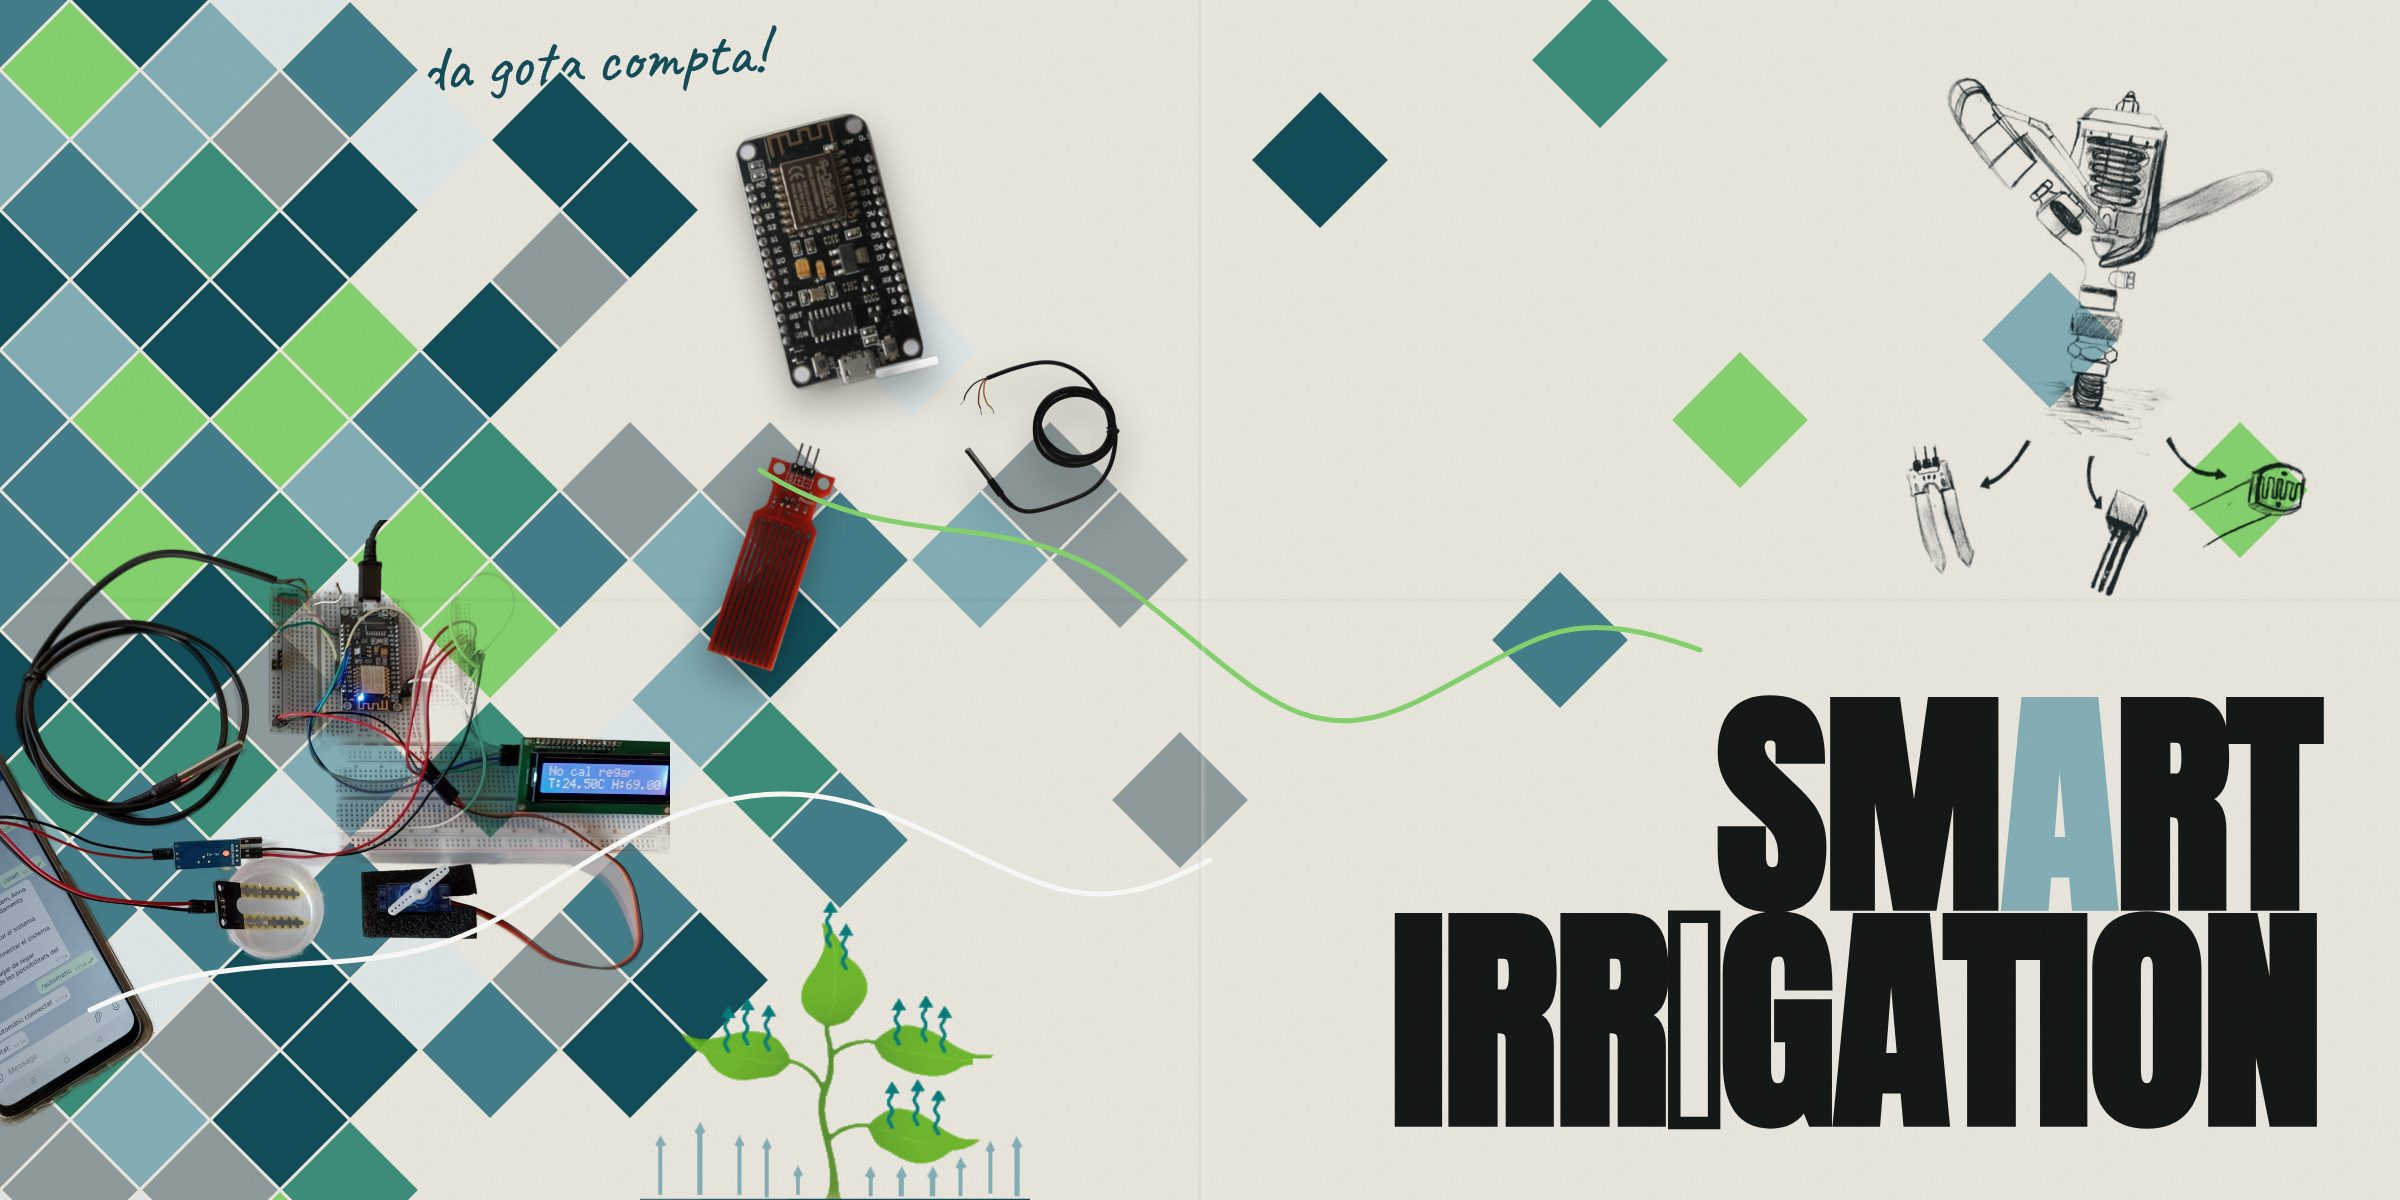
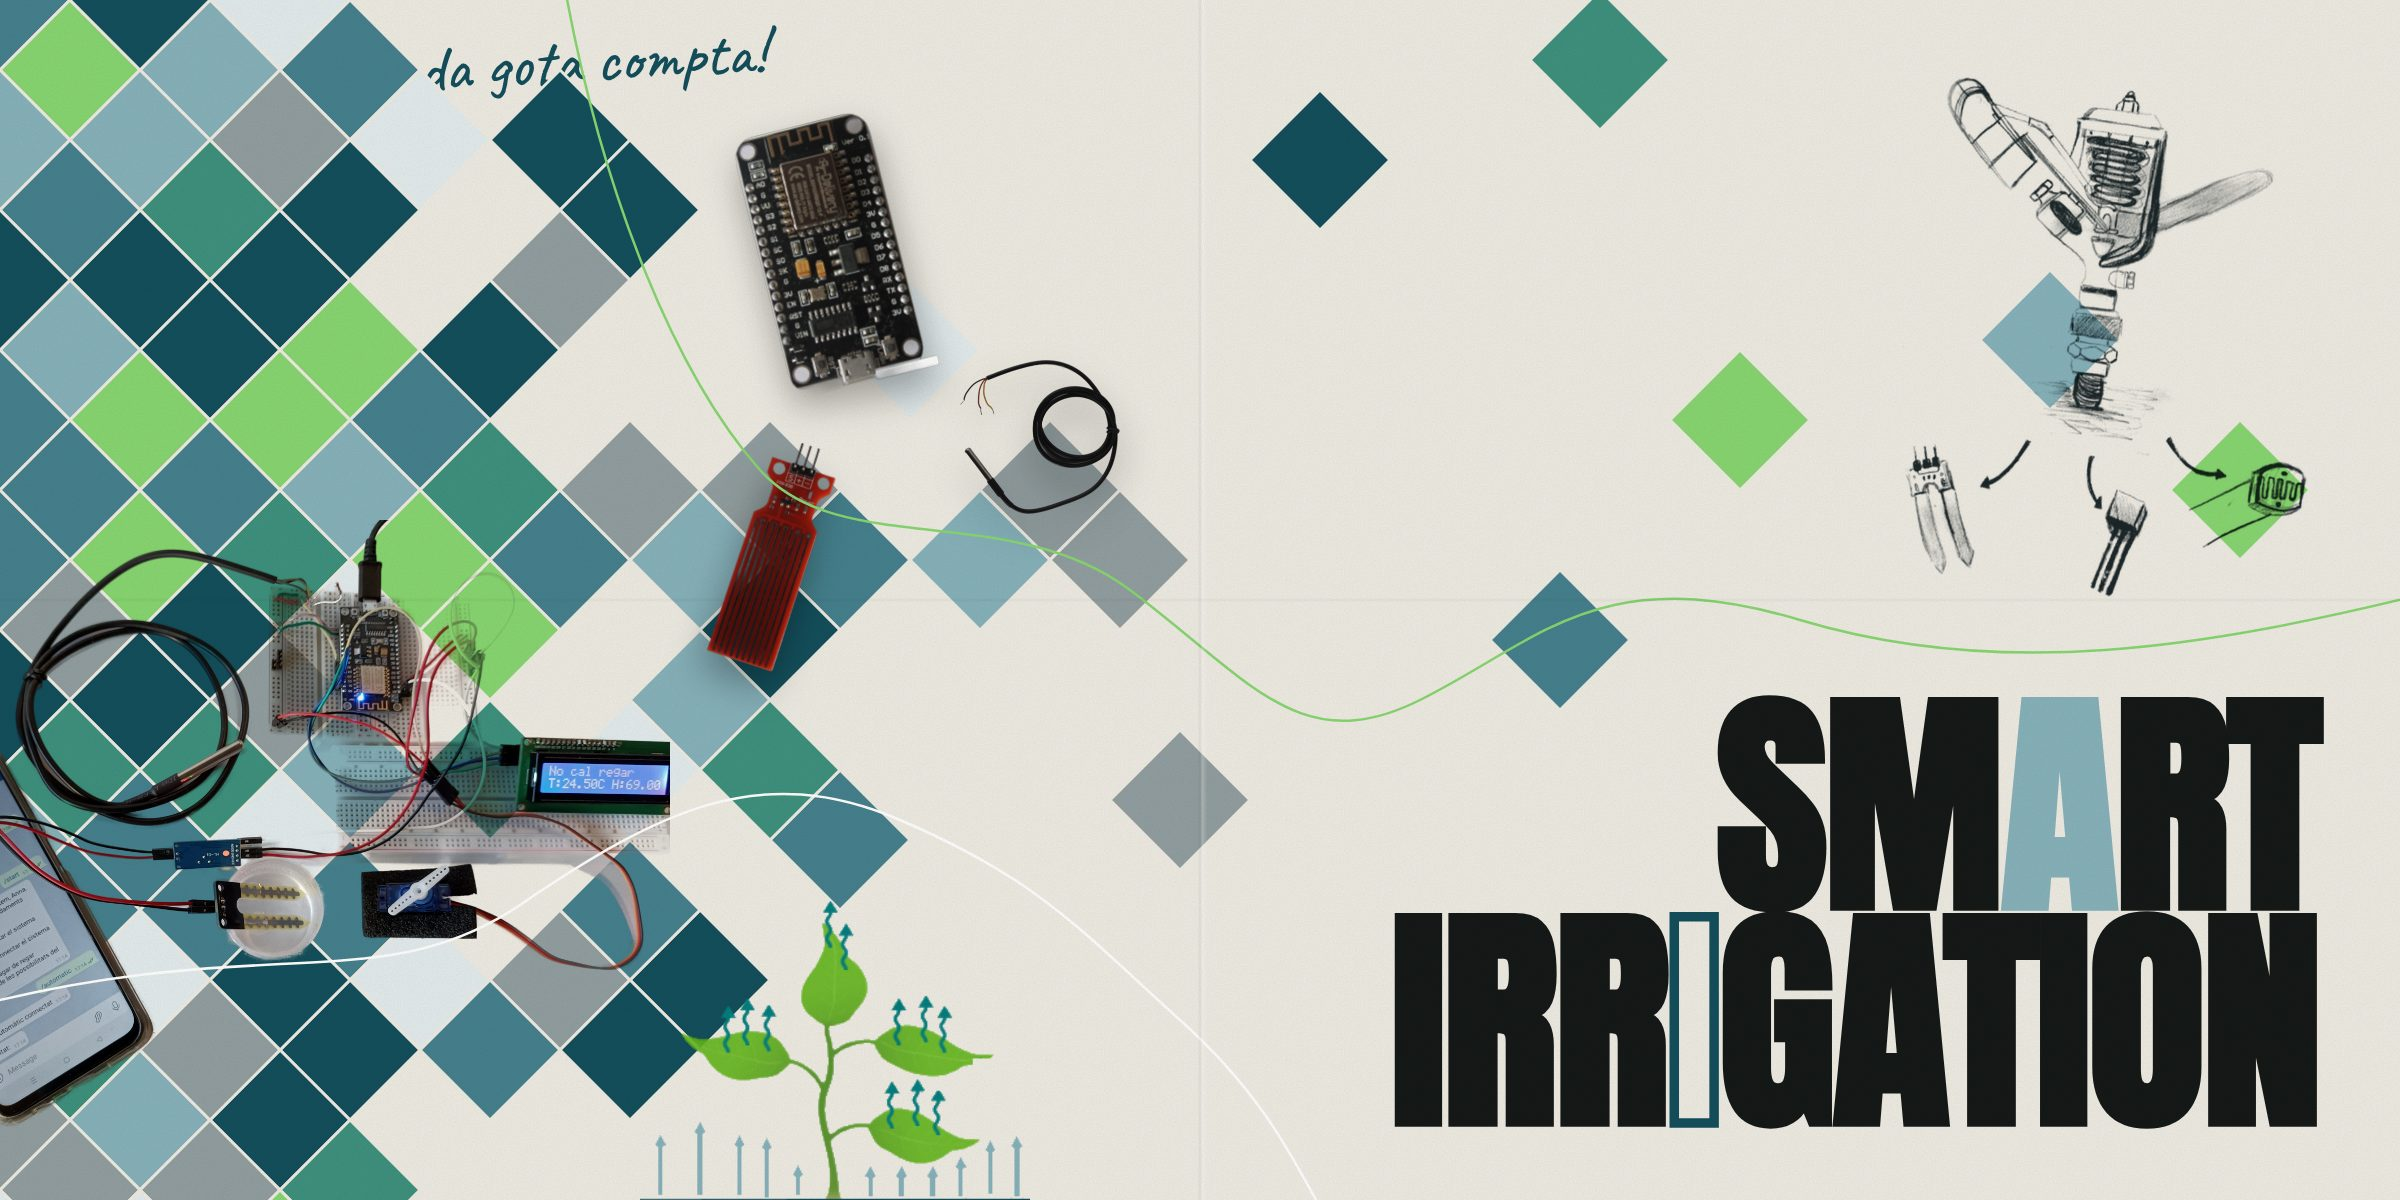
Billboard: fine dark-blue outlined I, thinner lines that run off the edges
Claude-Session: https://claude.ai/code/session_01PchemtfrPnXx57Zg6o9MzX

diff --git a/billboard/smart-irrigation.html b/billboard/smart-irrigation.html
@@ -39,7 +39,7 @@
     background: url("../images/smart-irrigation/sketch.png") center top / contain no-repeat; transform: rotate(6deg); }
   .plant { left: 640px; bottom: -4px; width: 390px; z-index: 4; } /* between the two layers of tiles */
   .title .blue { color: var(--sky); }
-  .title .ghost { color: transparent; -webkit-text-stroke: 5px var(--black); }
+  .title .ghost { color: transparent; -webkit-text-stroke: 2px var(--ink); }
   .hand { left: 360px; top: 30px; z-index: 1; margin: 0; font-family: Caveat, cursive; font-size: 64px; line-height: 1; color: var(--ink); transform: rotate(-3deg); }
   .comp { z-index: 8; filter: drop-shadow(0 18px 18px rgba(0,0,0,.35)); }
   .c-node { left: 760px; top: 120px; width: 150px; transform: rotate(-14deg); }
@@ -65,8 +65,8 @@
   <img class="comp c-water" src="../images/smart-irrigation/tile-water-sensor.png" alt="Soil humidity sensor">
 
   <svg class="strokes" viewBox="0 0 2400 1200" aria-hidden="true" fill="none" stroke-linecap="round" stroke-linejoin="round">
-    <path d="M90 1010 C 260 930, 380 1000, 520 905 S 760 760, 900 820 S 1080 930, 1210 860" stroke="#fff" stroke-width="5"/>
-    <path d="M760 470 C 900 560, 1010 500, 1130 590 S 1300 760, 1420 700 S 1560 600, 1700 650" stroke="#88d671" stroke-width="5"/>
+    <path d="M-40 1010 C 260 930, 380 1000, 520 905 S 760 760, 900 820 S 1080 930, 1180 1020 S 1300 1180, 1340 1240" stroke="#fff" stroke-width="2.5"/>
+    <path d="M560 -40 C 600 200, 680 380, 760 470 S 1010 500, 1130 590 S 1300 760, 1420 700 S 1600 560, 1800 620 S 2200 650, 2440 590" stroke="#88d671" stroke-width="2.5"/>
   </svg>
 
   <div class="fold"></div><div class="grain"></div>
